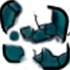
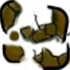
Hero dead logic

diff --git a/src/Hero.js b/src/Hero.js
@@ -4,6 +4,7 @@ var Hero = cc.Sprite.extend({
     leftAnime: null,
     rightAnime: null,
     fallAnime: null,
+    dieAnime: null,
     standUp: null,
     standDown: null,
     standLeft: null,
@@ -58,9 +59,13 @@ var Hero = cc.Sprite.extend({
         this.preFallFr = cc.spriteFrameCache.getSpriteFrame("hero13.png");
         this.fallingFr = cc.spriteFrameCache.getSpriteFrame("hero14.png");
         this.landedFr = cc.spriteFrameCache.getSpriteFrame("hero15.png");
-        //this.dieFr = cc.spriteFrameCache.getSpriteFrame("hero16.png");
-        //this.fallingFr = cc.spriteFrameCache.getSpriteFrame("hero17.png");
-        //this.landedFr = cc.spriteFrameCache.getSpriteFrame("hero18.png");
+        
+        frames = [];
+        frames.push(cc.spriteFrameCache.getSpriteFrame("hero16.png"));
+        frames.push(cc.spriteFrameCache.getSpriteFrame("hero17.png"));
+        frames.push(cc.spriteFrameCache.getSpriteFrame("hero18.png"));
+        animation = new cc.Animation(frames, 0.2);
+        this.dieAnime = cc.animate(animation).repeatForever();
         
         this.stand();
         this.collisionObjs = [];
@@ -132,7 +137,7 @@ var Hero = cc.Sprite.extend({
     },
     
     shoot: function() {
-        if (this.item) {
+        if (!this.dead && this.item) {
             var speedX = this.faceRight ? 1 : (this.faceLeft ? -1 : 0), 
                 speedY = this.faceUp ? 1 : (this.faceDown ? -1 : 0);
             cc.log("Shoot");
@@ -142,10 +147,19 @@ var Hero = cc.Sprite.extend({
         }
     },
     
+    die: function() {
+        if (!this.dead) {
+            this.dead = true;
+            this.stopAllActions();
+            this.runAction(this.dieAnime);
+        }
+    },
+    
     hurt: function(damage) {
-        if (this.unhurtable) return;
+        if (this.unhurtable || this.dead) return;
         
         if (this.hp <= 0) {
+            this.die();
         }
         else {
             this.hp -= damage;
@@ -171,6 +185,8 @@ var Hero = cc.Sprite.extend({
     },
     
     update: function() {
+        if(this.dead) return;
+        
         var x = this.x, y = this.y, i, l, obj, r1, r2;
         if (this.walking) {
             if (this.faceRight && x <= CFG.rightBorder) {

diff --git a/src/TiledLayer.js b/src/TiledLayer.js
@@ -16,7 +16,7 @@ var TiledLayer = cc.Layer.extend({
     _breakAnime : null,
     
     ctor: function(width, height, col, row) {
-        var r, c, tile, tex, rect, tw, th, anchor = cc.p(0, 0);
+        var r, c, tile, tex, rect, tw, th, anchor = cc.p(0, 0), frames;
         
         this._super();
         this._row = row;
@@ -38,6 +38,12 @@ var TiledLayer = cc.Layer.extend({
         }
         
         this.addChild(this._batchNode);
+        
+        frames = [];
+        for (r = 1; r < 6; r++) {
+            frames.push(cc.spriteFrameCache.getSpriteFrame("tile"+r+".png"));
+        }
+        this._breakAnime = new cc.Animation(frames, 0.1);
     },
     
     breakDown: function() {
@@ -45,7 +51,7 @@ var TiledLayer = cc.Layer.extend({
         
         for (i = 0, l = tiles.length; i < l; ++i) {
             tile = tiles[i];
-            tile.runAction(cc.scaleTo(CFG.tileBreakTime, 0));
+            tile.runAction(cc.animate(this._breakAnime));
         }
     }
 });

diff --git a/src/InputManager.js b/src/InputManager.js
@@ -3,7 +3,7 @@ var HeroKeyboardManager = cc.EventListener.create({
 
     onKeyPressed : function (keyCode, event) {
         var hero = event.getCurrentTarget();
-        if (hero.isFalling) return;
+        if (hero.isFalling || hero.dead) return;
 
         if (keyCode == 39 && (!hero.walking || !hero.faceRight)) {
             hero.faceUp = false;
@@ -47,7 +47,7 @@ var HeroKeyboardManager = cc.EventListener.create({
     },
     onKeyReleased : function (keyCode, event) {
         var hero = event.getCurrentTarget();
-        if (hero.isFalling) return;
+        if (hero.isFalling || hero.dead) return;
 
         if (hero.faceRight && keyCode == 39) {
             hero.stand();

diff --git a/src/Enemies.js b/src/Enemies.js
@@ -72,9 +72,9 @@ var Enemy = cc.Sprite.extend({
             this.target.hurt(this.damage);
         }
         
-        if (!this.couraged && this.target.hasWeapon() && distance < warnDis)
+        if (!this.target.dead && !this.couraged && this.target.hasWeapon() && distance < warnDis)
             this.runAway();
-        else if (distance < warnDis)
+        else if (!this.target.dead && distance < warnDis)
             this.goAfter();
         else {
             this.direction = Math.random() * Math.PI * 2;

diff --git a/src/GameScene.js b/src/GameScene.js
@@ -161,7 +161,7 @@ var GameScene = cc.Scene.extend({
         //this._enemyLayer.y = CFG.marginY;
         this._enemyLayer.width = CFG.width;
         this._enemyLayer.height = CFG.height;
-        this.addChild(this._enemyLayer, 4);
+        this.addChild(this._enemyLayer, 10);
         this.addEnemies(this.enemyCount);
         
         this.initObjs();

diff --git a/src/Items.js b/src/Items.js
@@ -62,7 +62,7 @@ var Item = cc.Sprite.extend({
         var frame = new cc.Sprite(tex);
         frame.x = this.width/2;
         frame.y = this.height/2;
-        this.addChild(frame, 0, CFG.frameTag);
+        this.addChild(frame, -1, CFG.frameTag);
     },
     
     fire: function() {}
